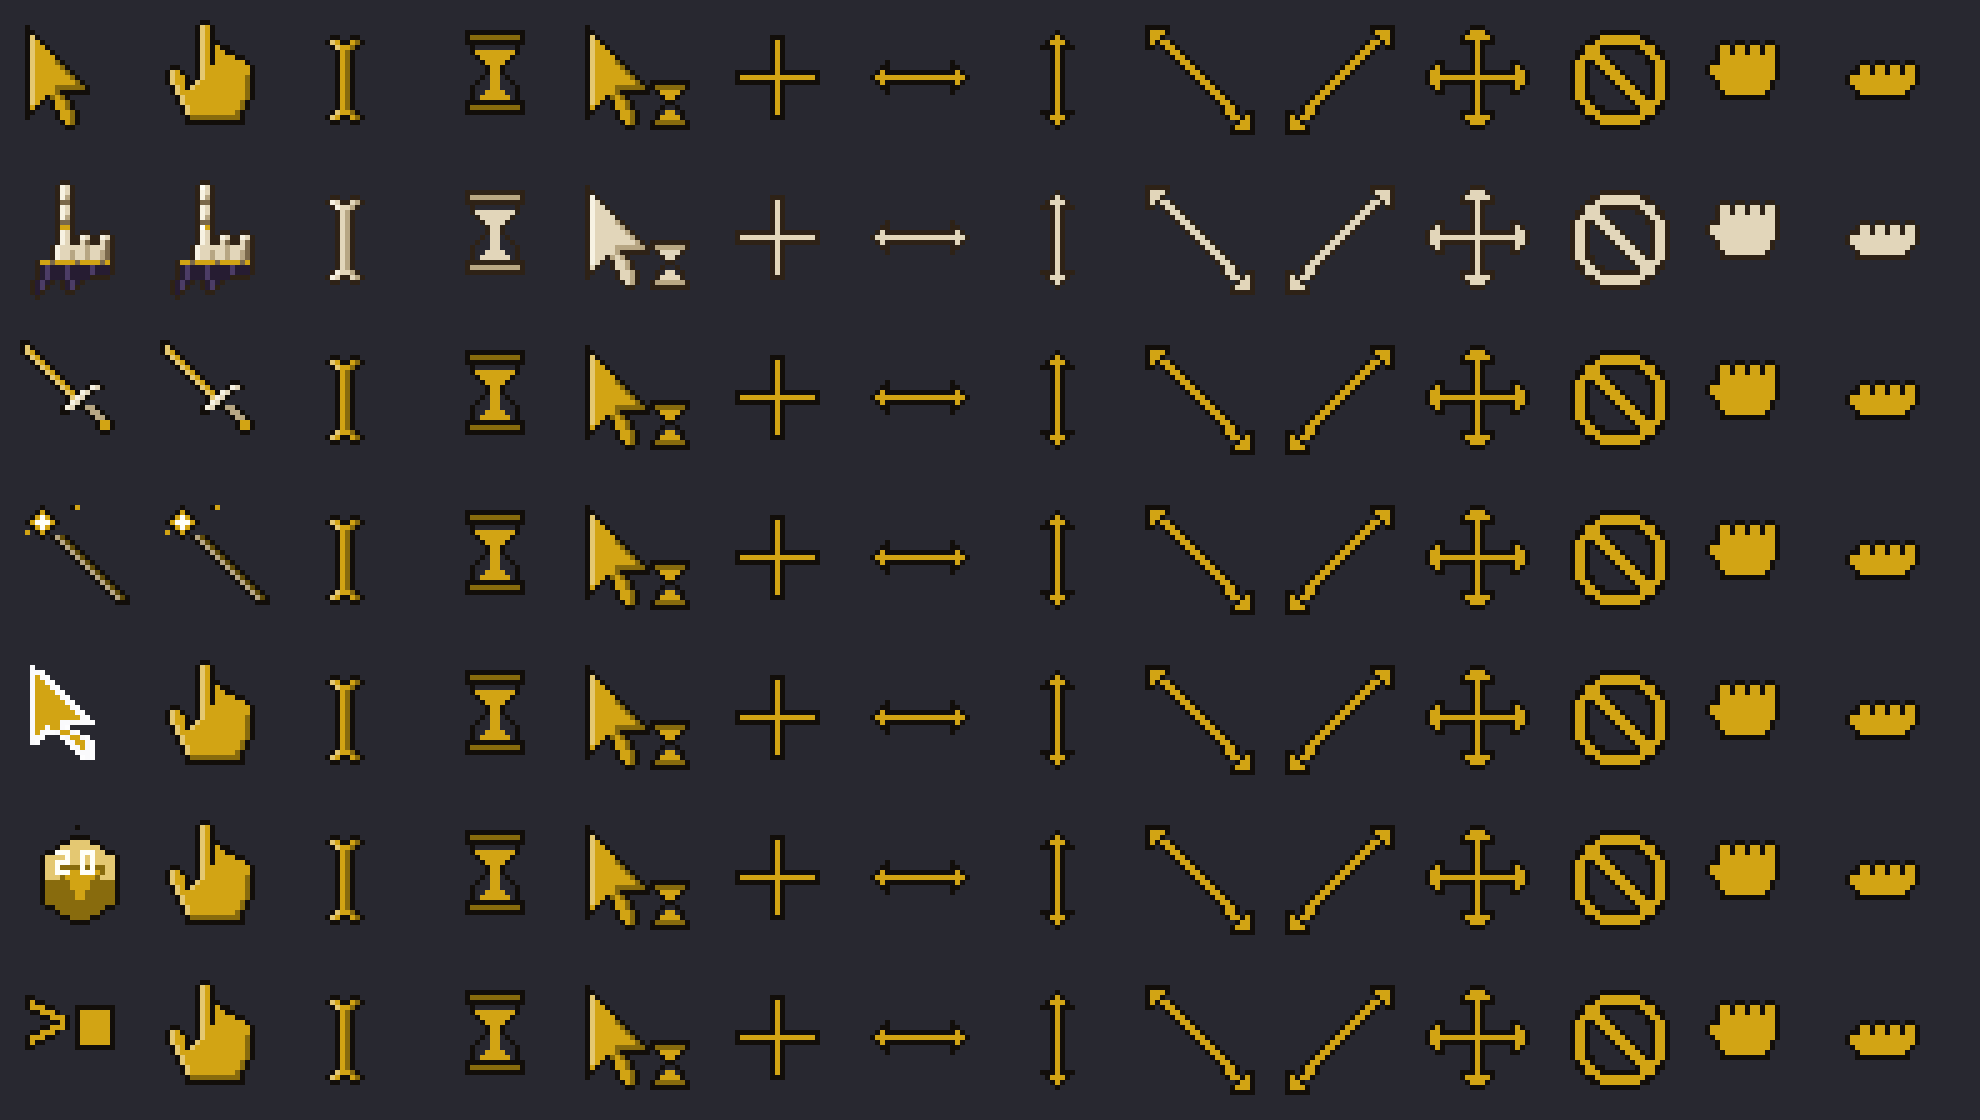
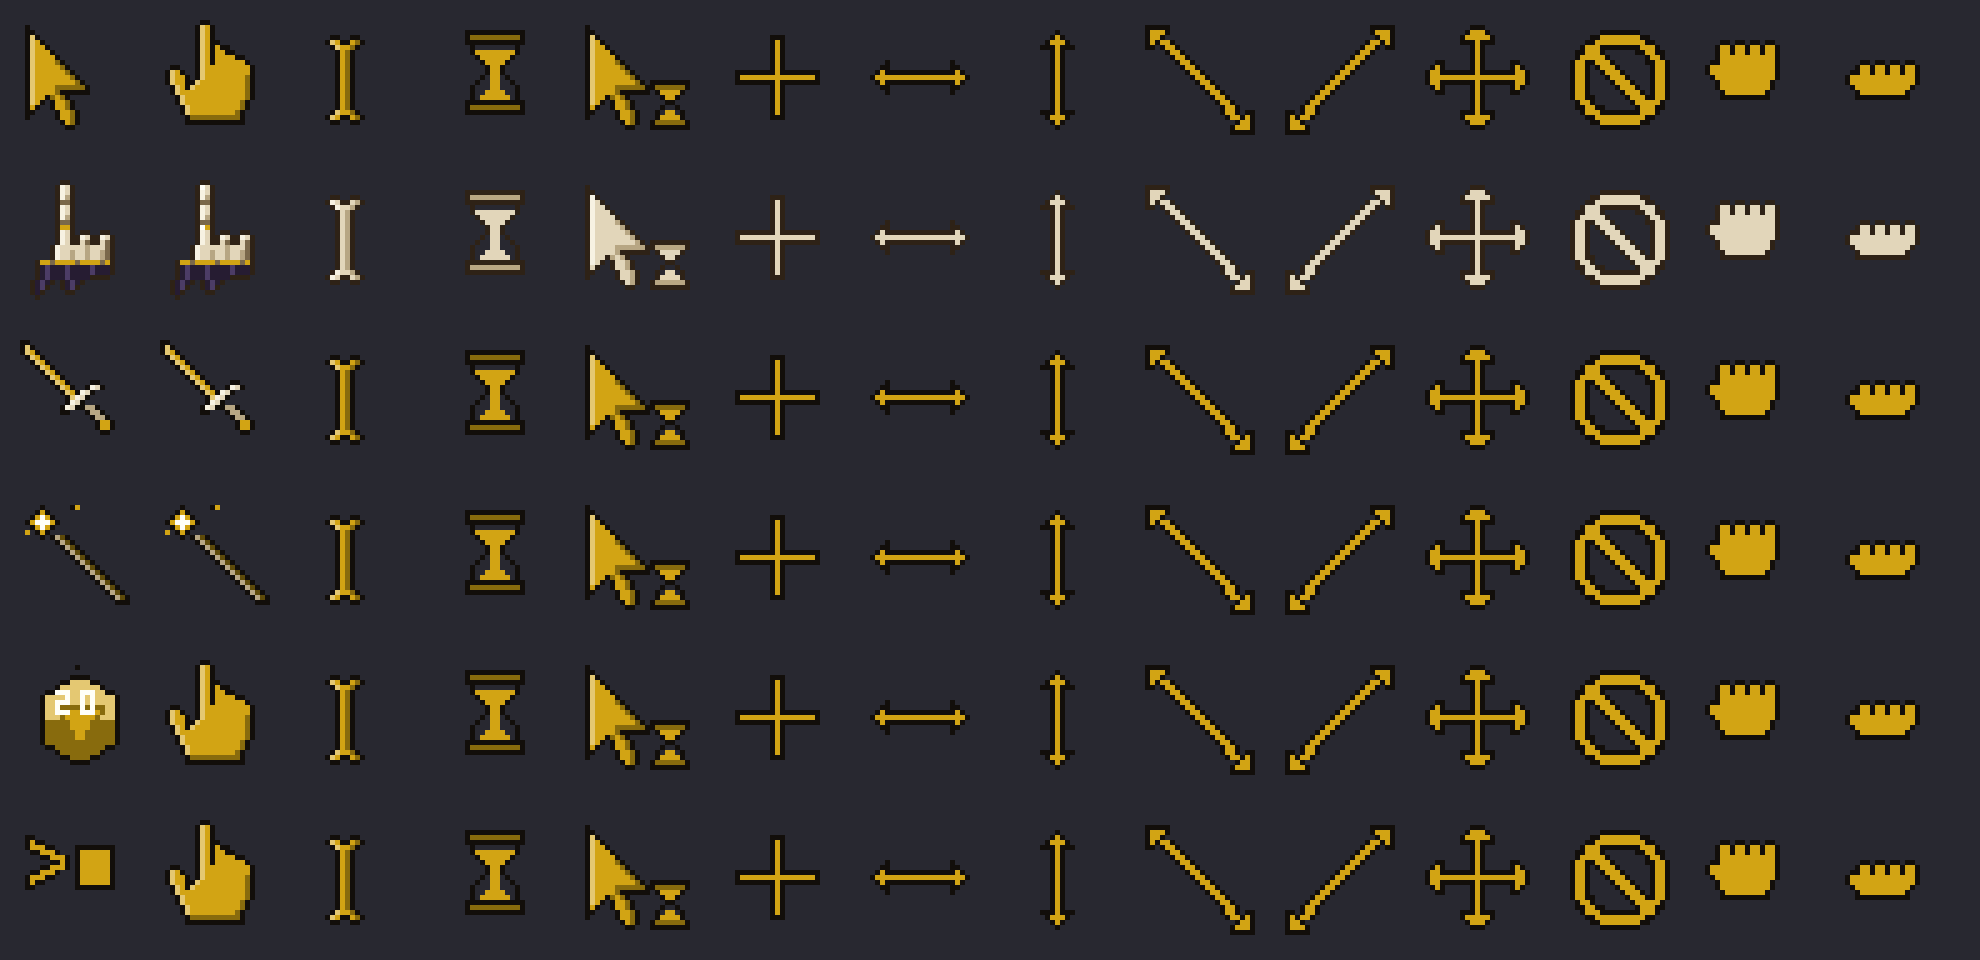
v2.4.0: remove the modern style; final marketplace QA pass
Claude-Session: https://claude.ai/code/session_01FLx4Lu1FfPPfeLgjJBac1F

diff --git a/Service.qml b/Service.qml
@@ -11,7 +11,7 @@ Item {
   property var shell: null
   property var manifest: null
   readonly property string pluginId: "io.github.erikburdett.cursorforge"
-  readonly property var styles: ["classic", "lich", "sword", "wand", "modern", "d20", "terminal", "image"]
+  readonly property var styles: ["classic", "lich", "sword", "wand", "d20", "terminal", "image"]
   readonly property var sizes: [24, 48, 72, 96]
 
   // Mirrors ~/.config/cursorforge/settings.json. `active` means the user has
@@ -82,7 +82,6 @@ Item {
     if (name === "lich") return "Lich sleeve"
     if (name === "sword") return "Sword"
     if (name === "wand") return "Wand"
-    if (name === "modern") return "Modern"
     if (name === "d20") return "D20"
     if (name === "terminal") return "Terminal"
     if (name === "image") return "Custom image"
@@ -300,8 +299,9 @@ Item {
     if (!parsed || typeof parsed !== "object") parsed = {}
 
     // v2.0.0 migration: the standalone skeleton style folded into lich.
-    var parsedStyle = String(parsed.style) === "skeleton" ? "lich"
-      : String(parsed.style)
+    var parsedStyle = String(parsed.style)
+    if (parsedStyle === "skeleton") parsedStyle = "lich"
+    if (parsedStyle === "modern") parsedStyle = "classic"
     var nextStyle = styles.indexOf(parsedStyle) >= 0 ? parsedStyle : style
     var nextMode = parsed.colorMode === "custom" ? "custom" : "theme"
     var nextColor = isValidColor(parsed.customColor)

diff --git a/Panel.qml b/Panel.qml
@@ -161,7 +161,6 @@ Panel {
               { key: "lich", label: "Lich" },
               { key: "sword", label: "Sword" },
               { key: "wand", label: "Wand" },
-              { key: "modern", label: "Modern" },
               { key: "d20", label: "D20" },
               { key: "terminal", label: "Terminal" },
               { key: "image", label: "Image" }

diff --git a/cursorgen.py b/cursorgen.py
@@ -36,8 +36,8 @@ BASE = 24                # art is drawn on a 24x24 grid
 SCALES = (1, 2, 3, 4)    # emit nominal sizes 24, 48, 72, 96 (96 for HiDPI:
                          # Hyprland requests size x ceil(scale) from libXcursor)
 VALID_SIZES = tuple(BASE * s for s in SCALES)
-STYLES = ("classic", "lich", "sword", "wand", "modern", "d20", "terminal", "image")
-ART_STYLES = ("classic", "lich", "sword", "wand", "modern", "d20", "terminal")
+STYLES = ("classic", "lich", "sword", "wand", "d20", "terminal", "image")
+ART_STYLES = ("classic", "lich", "sword", "wand", "d20", "terminal")
 COLOR_RE = re.compile(r"^#[0-9a-fA-F]{6}$")
 HOTSPOT_RE = re.compile(r"^\d{1,2},\d{1,2}$")
 
@@ -702,37 +702,6 @@ NOT_ALLOWED = make_not_allowed()
 PROGRESS_ARROW = compose_grid(ARROW, MINI_HOURGLASS, 14, 12)
 PROGRESS_ARROW_DRAINED = compose_grid(ARROW, MINI_HOURGLASS_DRAINED, 14, 12)
 
-# A modern, less-retro arrow: sleek narrow silhouette, crisp white border,
-# theme-colored fill, and half-alpha edge pixels standing in for
-# anti-aliasing. Deliberately static — modern cursors keep still.
-MODERN = [
-    "........................",
-    "..O.....................",
-    "..OOo...................",
-    "..OFOo..................",
-    "..OFFOo.................",
-    "..OFFFOo................",
-    "..OFFFFOo...............",
-    "..OFFFFFOo..............",
-    "..OFFFFFFOo.............",
-    "..OFFFFFFFOo............",
-    "..OFFFFFFFFOo...........",
-    "..OFFFFFFFFFOo..........",
-    "..OFFFFFOOOOOOo.........",
-    "..OFFOFFOo..............",
-    "..OFOooOFFOo............",
-    "..OOo...oOFFOo..........",
-    "..Oo.....oOFFOo.........",
-    "..........oOFOo.........",
-    "...........oOOo.........",
-    "............oOo.........",
-    "........................",
-    "........................",
-    "........................",
-    "........................",
-]
-
-
 def make_d20():
     """A twenty-sided die: hexagonal silhouette, shaded faces, and a tiny
     20 on the front face. Built geometrically so the edges stay straight."""
@@ -880,7 +849,6 @@ SHAPES = {
                           "motion": SWORD_MOTION_FRAMES},
                 "wand": {"frames": WAND_FRAMES, "hotspot": (4, 4),
                          "motion": WAND_MOTION_FRAMES},
-                "modern": static(MODERN, 2, 1),
                 "d20": {"frames": D20_FRAMES, "hotspot": (11, 1),
                         "motion": D20_MOTION},
                 "terminal": {"frames": TERMINAL_FRAMES, "hotspot": (1, 3)}},
@@ -974,10 +942,6 @@ def palette(style, rgb):
         ".": (0, 0, 0, 0),
         "R": (*rgb, 255),
         "W": (255, 255, 248, 255),
-        "O": (250, 250, 252, 255),
-        "o": (250, 250, 252, 96),
-        "f": (*rgb, 140),
-        "K": (38, 38, 43, 255),
         "B": (*BONE["B"], 255),
         "L": (*BONE["L"], 255),
         "b": (*BONE["b"], 255),

diff --git a/tests/test_cursorgen.py b/tests/test_cursorgen.py
@@ -39,7 +39,6 @@ ALL_GRIDS = {
     "SWORD_GLINT": cursorgen.SWORD_GLINT,
     "WAND": cursorgen.WAND,
     "WAND_GLINT": cursorgen.WAND_GLINT,
-    "MODERN": cursorgen.MODERN,
     "D20": cursorgen.D20,
     "D20_GLINT": cursorgen.D20_GLINT,
     "TERMINAL_ON": cursorgen.TERMINAL_ON,
@@ -298,7 +297,7 @@ def test_transparent_pixels_are_fully_zero(tmp_path):
 
 def test_previews_are_valid_pngs(tmp_path):
     theme = build(tmp_path, "classic")
-    for name in ("current.png", "classic.png", "lich.png", "modern.png",
+    for name in ("current.png", "classic.png", "lich.png",
                  "d20.png", "terminal.png",
                  "sword.png", "wand.png", "shapes.png", "ripple_0.png",
                  "ripple_3.png"):
@@ -382,16 +381,6 @@ def test_tint_pixels_colorizes_by_luminance():
     assert tinted[1] == (0, 0, 0, 255)          # black stays black
     assert tinted[2][3] == 60                   # alpha preserved
     assert 0 < tinted[2][0] < 210
-
-
-def test_modern_style_is_static_and_antialiased(tmp_path):
-    frames, xhot, yhot = cursorgen.shape_spec("default", "modern", False)
-    assert len(frames) == 1 and frames[0][1] == 0
-    assert (xhot, yhot) == (2, 1)
-    roles = cursorgen.palette("classic", (210, 164, 20))
-    pixels = cursorgen.render_grid(cursorgen.MODERN, roles)
-    alphas = {a for _, _, _, a in pixels}
-    assert 96 in alphas and 255 in alphas  # AA edge + solid pixels
 
 
 def test_terminal_caret_blinks():

diff --git a/README.md b/README.md
@@ -26,9 +26,8 @@ Hyprland and GTK apps.
 - **Sword and Wand styles**: a theme-colored blade with a bone crossguard,
   and a wood wand with a sparkling accent star — because your cursor can be
   a fantasy artifact too.
-- **Nerd styles**: a **Modern** sleek arrow (white border, theme-colored
-  fill, anti-aliased edges, deliberately still), a **D20** with a real 20
-  on its face, and a **Terminal** prompt whose block caret blinks.
+- **Nerd styles**: a **D20** with a real 20 on its face (it glints and
+  bobs), and a **Terminal** prompt whose block caret blinks.
 - **Fourteen shapes**, one family: arrow, hand, text beam, wait, progress,
   crosshair, all four resize arrows, move, not-allowed, grab, and grabbing —
   with their common alias names, so apps rarely fall back to another theme.
@@ -80,7 +79,7 @@ can be restored.
   Changes apply immediately.
 - **Scroll** on the bar widget to cycle styles.
 - **Edit the file**: `~/.config/cursorforge/settings.json` is watched;
-  hand edits apply live. Keys: `style` (`classic` | `lich` | `sword` | `wand` | `modern` | `d20` | `terminal` | `image`),
+  hand edits apply live. Keys: `style` (`classic` | `lich` | `sword` | `wand` | `d20` | `terminal` | `image`),
   `colorMode` (`theme` | `custom`), `customColor`, `size` (24/48/72/96),
   `imagePath`, `imageHotspot` (`"x,y"` on the 24px grid), `leftHanded`,
   `animated`, `motion`, `speed` (`calm` | `normal` | `lively`),

diff --git a/CHANGELOG.md b/CHANGELOG.md
@@ -4,6 +4,14 @@ All notable changes to OmCursor Forge (formerly Cursor Forge) are documented her
 [Keep a Changelog](https://keepachangelog.com/en/1.1.0/) and the project uses
 [Semantic Versioning](https://semver.org/).
 
+## [2.4.0] - 2026-09-06
+
+### Removed
+
+- The short-lived `modern` style (added in 2.2.0, never in a marketplace
+  release). Settings referencing it migrate to `classic`. The style
+  roster is classic, lich, sword, wand, d20, terminal, and image.
+
 ## [2.3.0] - 2026-09-06
 
 ### Fixed
